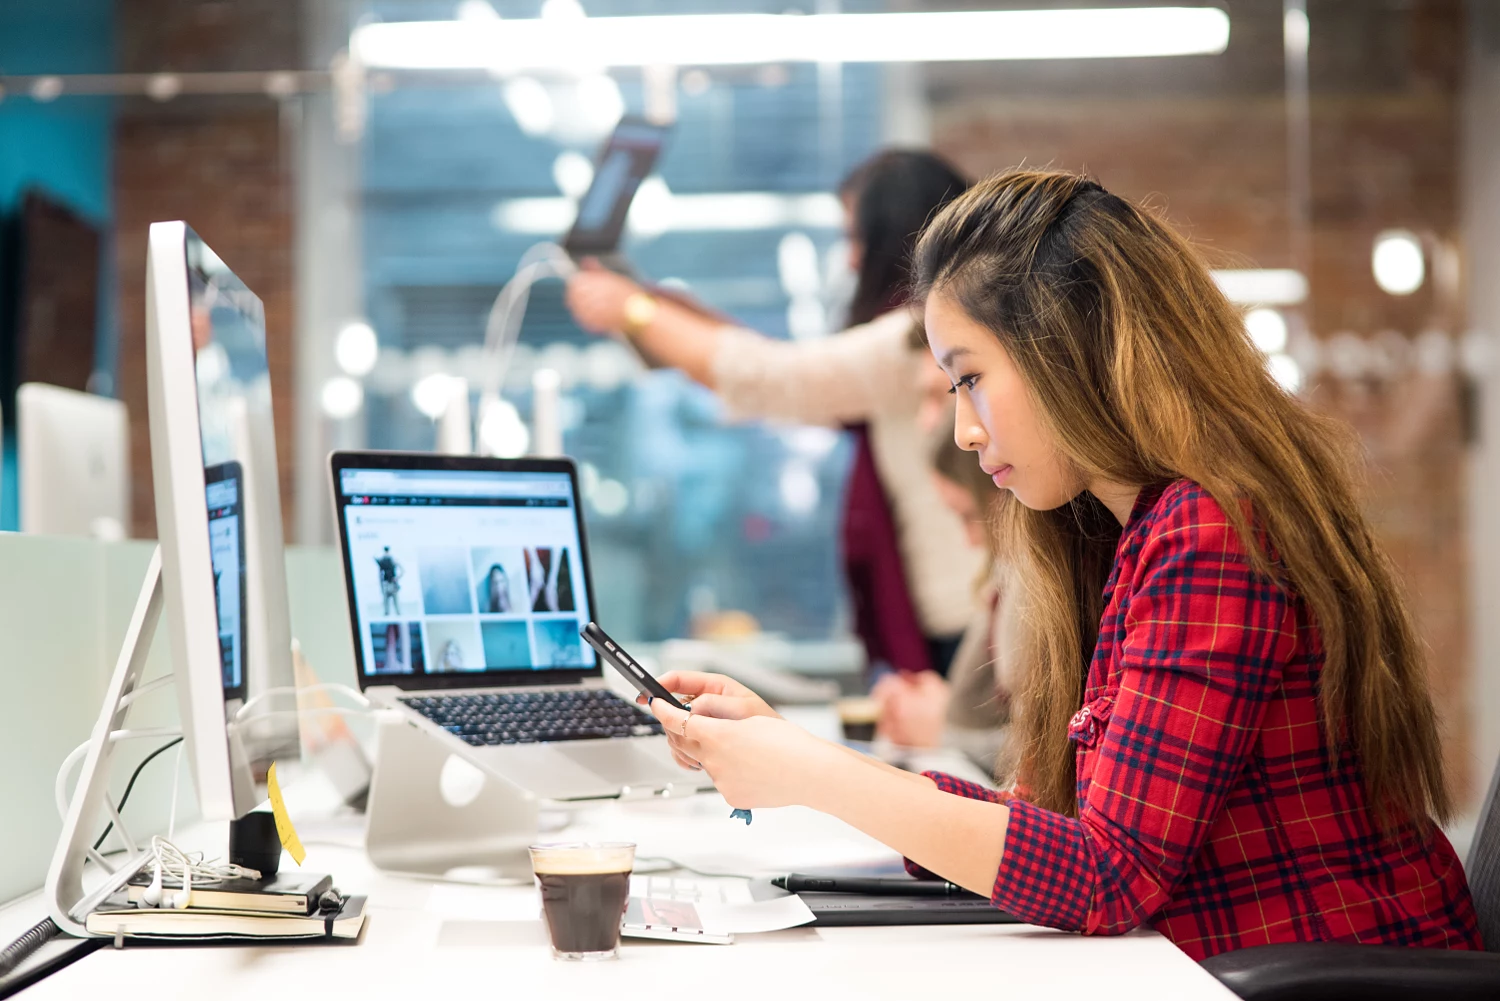
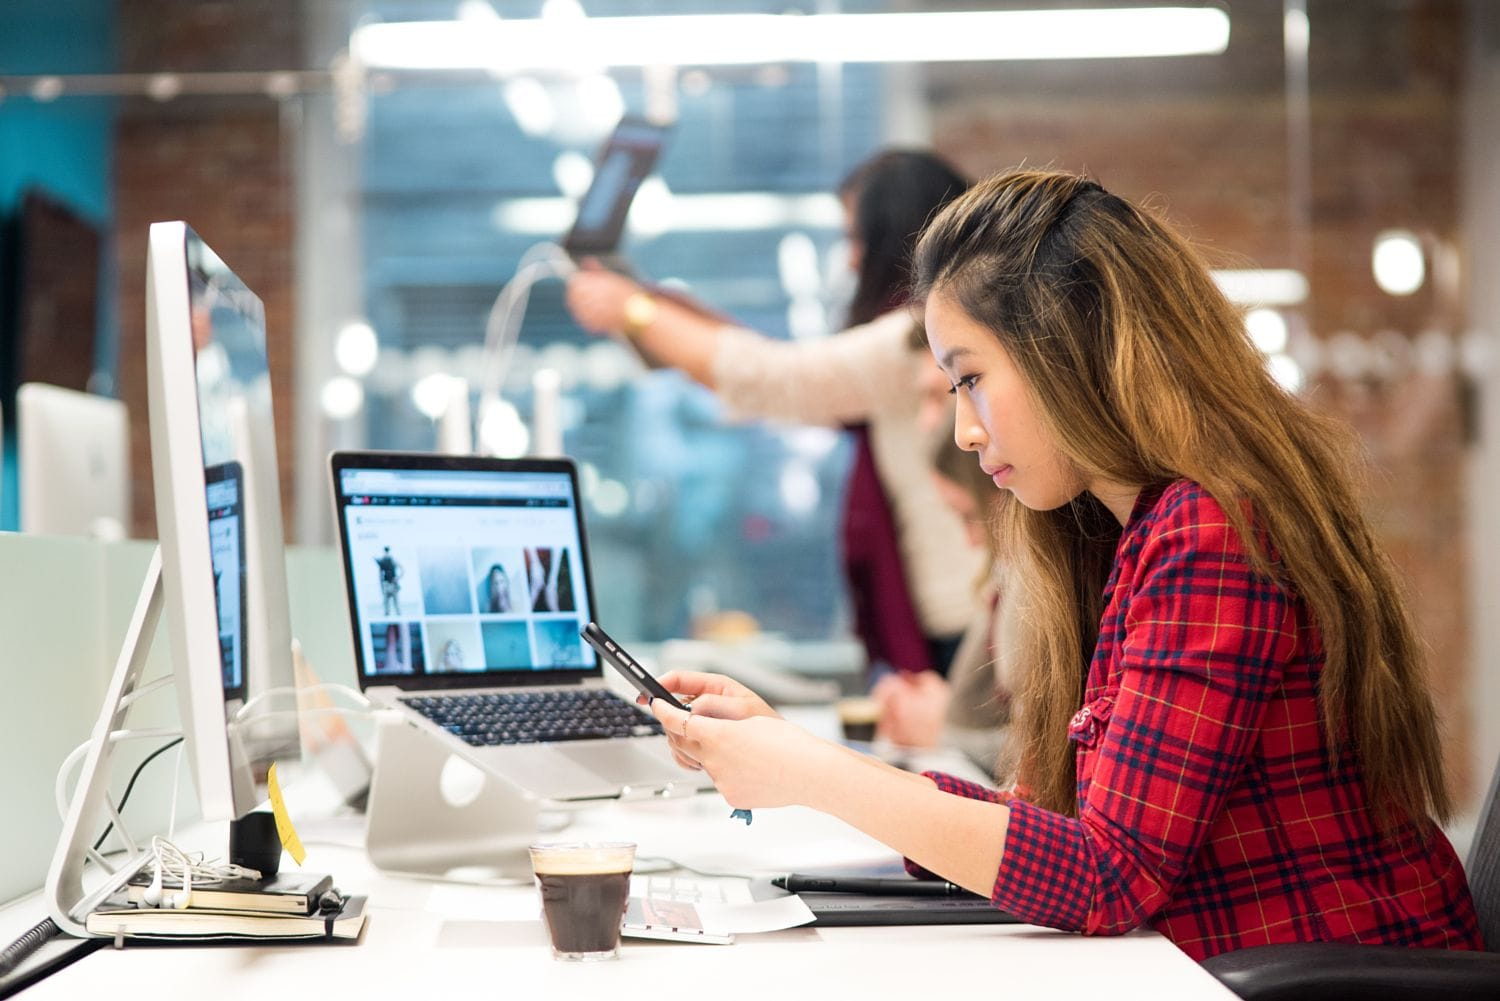
Image Optimization

Changed region(s): [[0.092, 0.8981, 0.2147, 0.96], [0.644, 0.1858, 0.7053, 0.2478], [0.7053, 0.7123, 0.736, 0.7433]]

diff --git a/js/all.js b/js/all.js
@@ -219,3 +219,65 @@ jQuery(document).ready(function(){
     $('.sub_overlay').removeClass('visible');
   });
 });
+
+jQuery(document).ready(function($){
+
+	var granimInstance = new Granim({
+		element: '#canvas-basic',
+		direction: 'left-right',
+		isPausedWhenNotInView: true,
+		states : {
+			"default-state": {
+				gradients: [
+					['#ff9966', '#ff5e62'],
+					['#00F260', '#0575E6'],
+					['#e1eec3', '#f05053']
+				]
+			}
+		}
+	});
+
+	/*$('#subscribe-form').submit(function(e){
+		e.preventDefault();
+		var data = {
+			'action': 'mail_before_submit',
+			'security': rsm_ajax.security,
+			'name': $(this).find('input[name="name"]').val(),
+			'email': $(this).find('input[name="email"]').val(),
+			'message': $(this).find('textarea[name="message"]').val()
+		};
+		$.ajax({
+			type: "POST",
+			url: rsm_ajax.ajaxurl,
+			data: data,
+			success: function(){}
+		});
+
+		$(this).find('.input-submit').text('THANK YOU').attr('disabled', 'disabled');;
+
+		return false;
+	});
+
+	$('#contact_form').submit(function(e){
+		e.preventDefault();
+		var data = {
+			'action': 'mail_before_submit',
+			'security': rsm_ajax.security,
+			'name': $(this).find('input[name="name"]').val(),
+			'email': $(this).find('input[name="email"]').val(),
+			'message': $(this).find('textarea[name="message"]').val()
+		};
+		$.ajax({
+			type: "POST",
+			url: rsm_ajax.ajaxurl,
+			data: data,
+			success: function(){}
+		});
+
+		$(this).find('.input-submit').text('Thank You').attr('disabled', 'disabled');
+
+		return false;
+	});*/
+});
+
+
